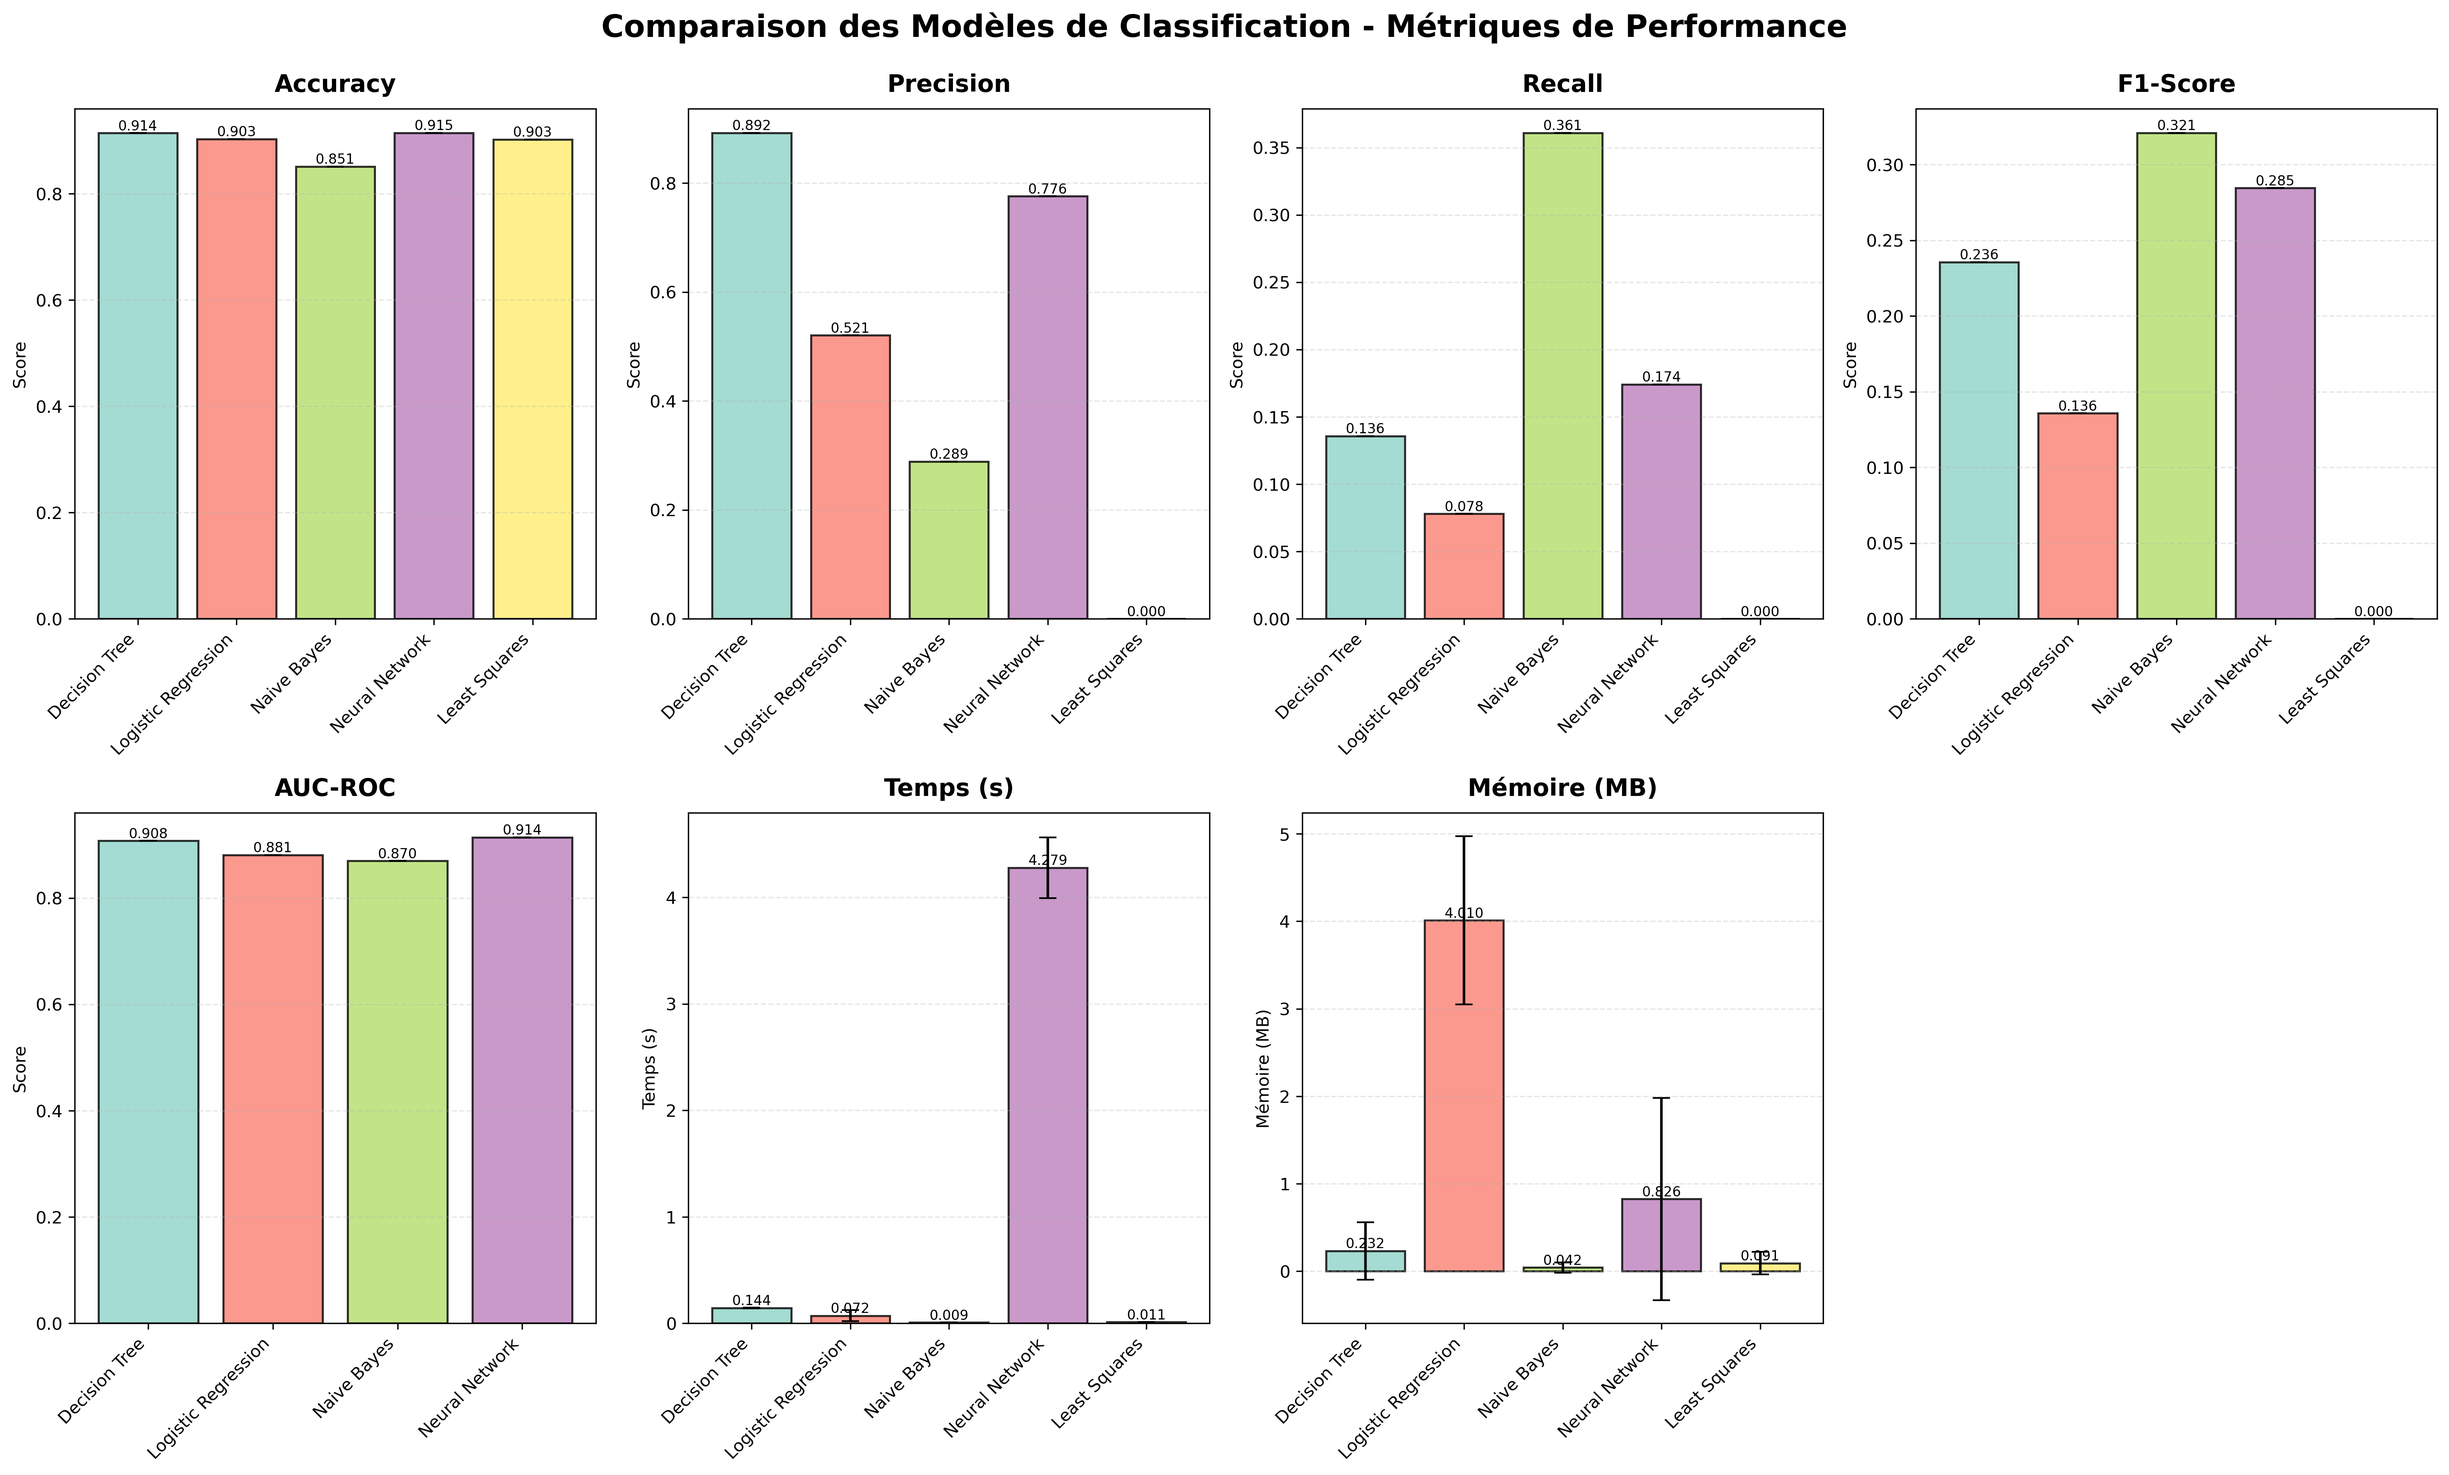
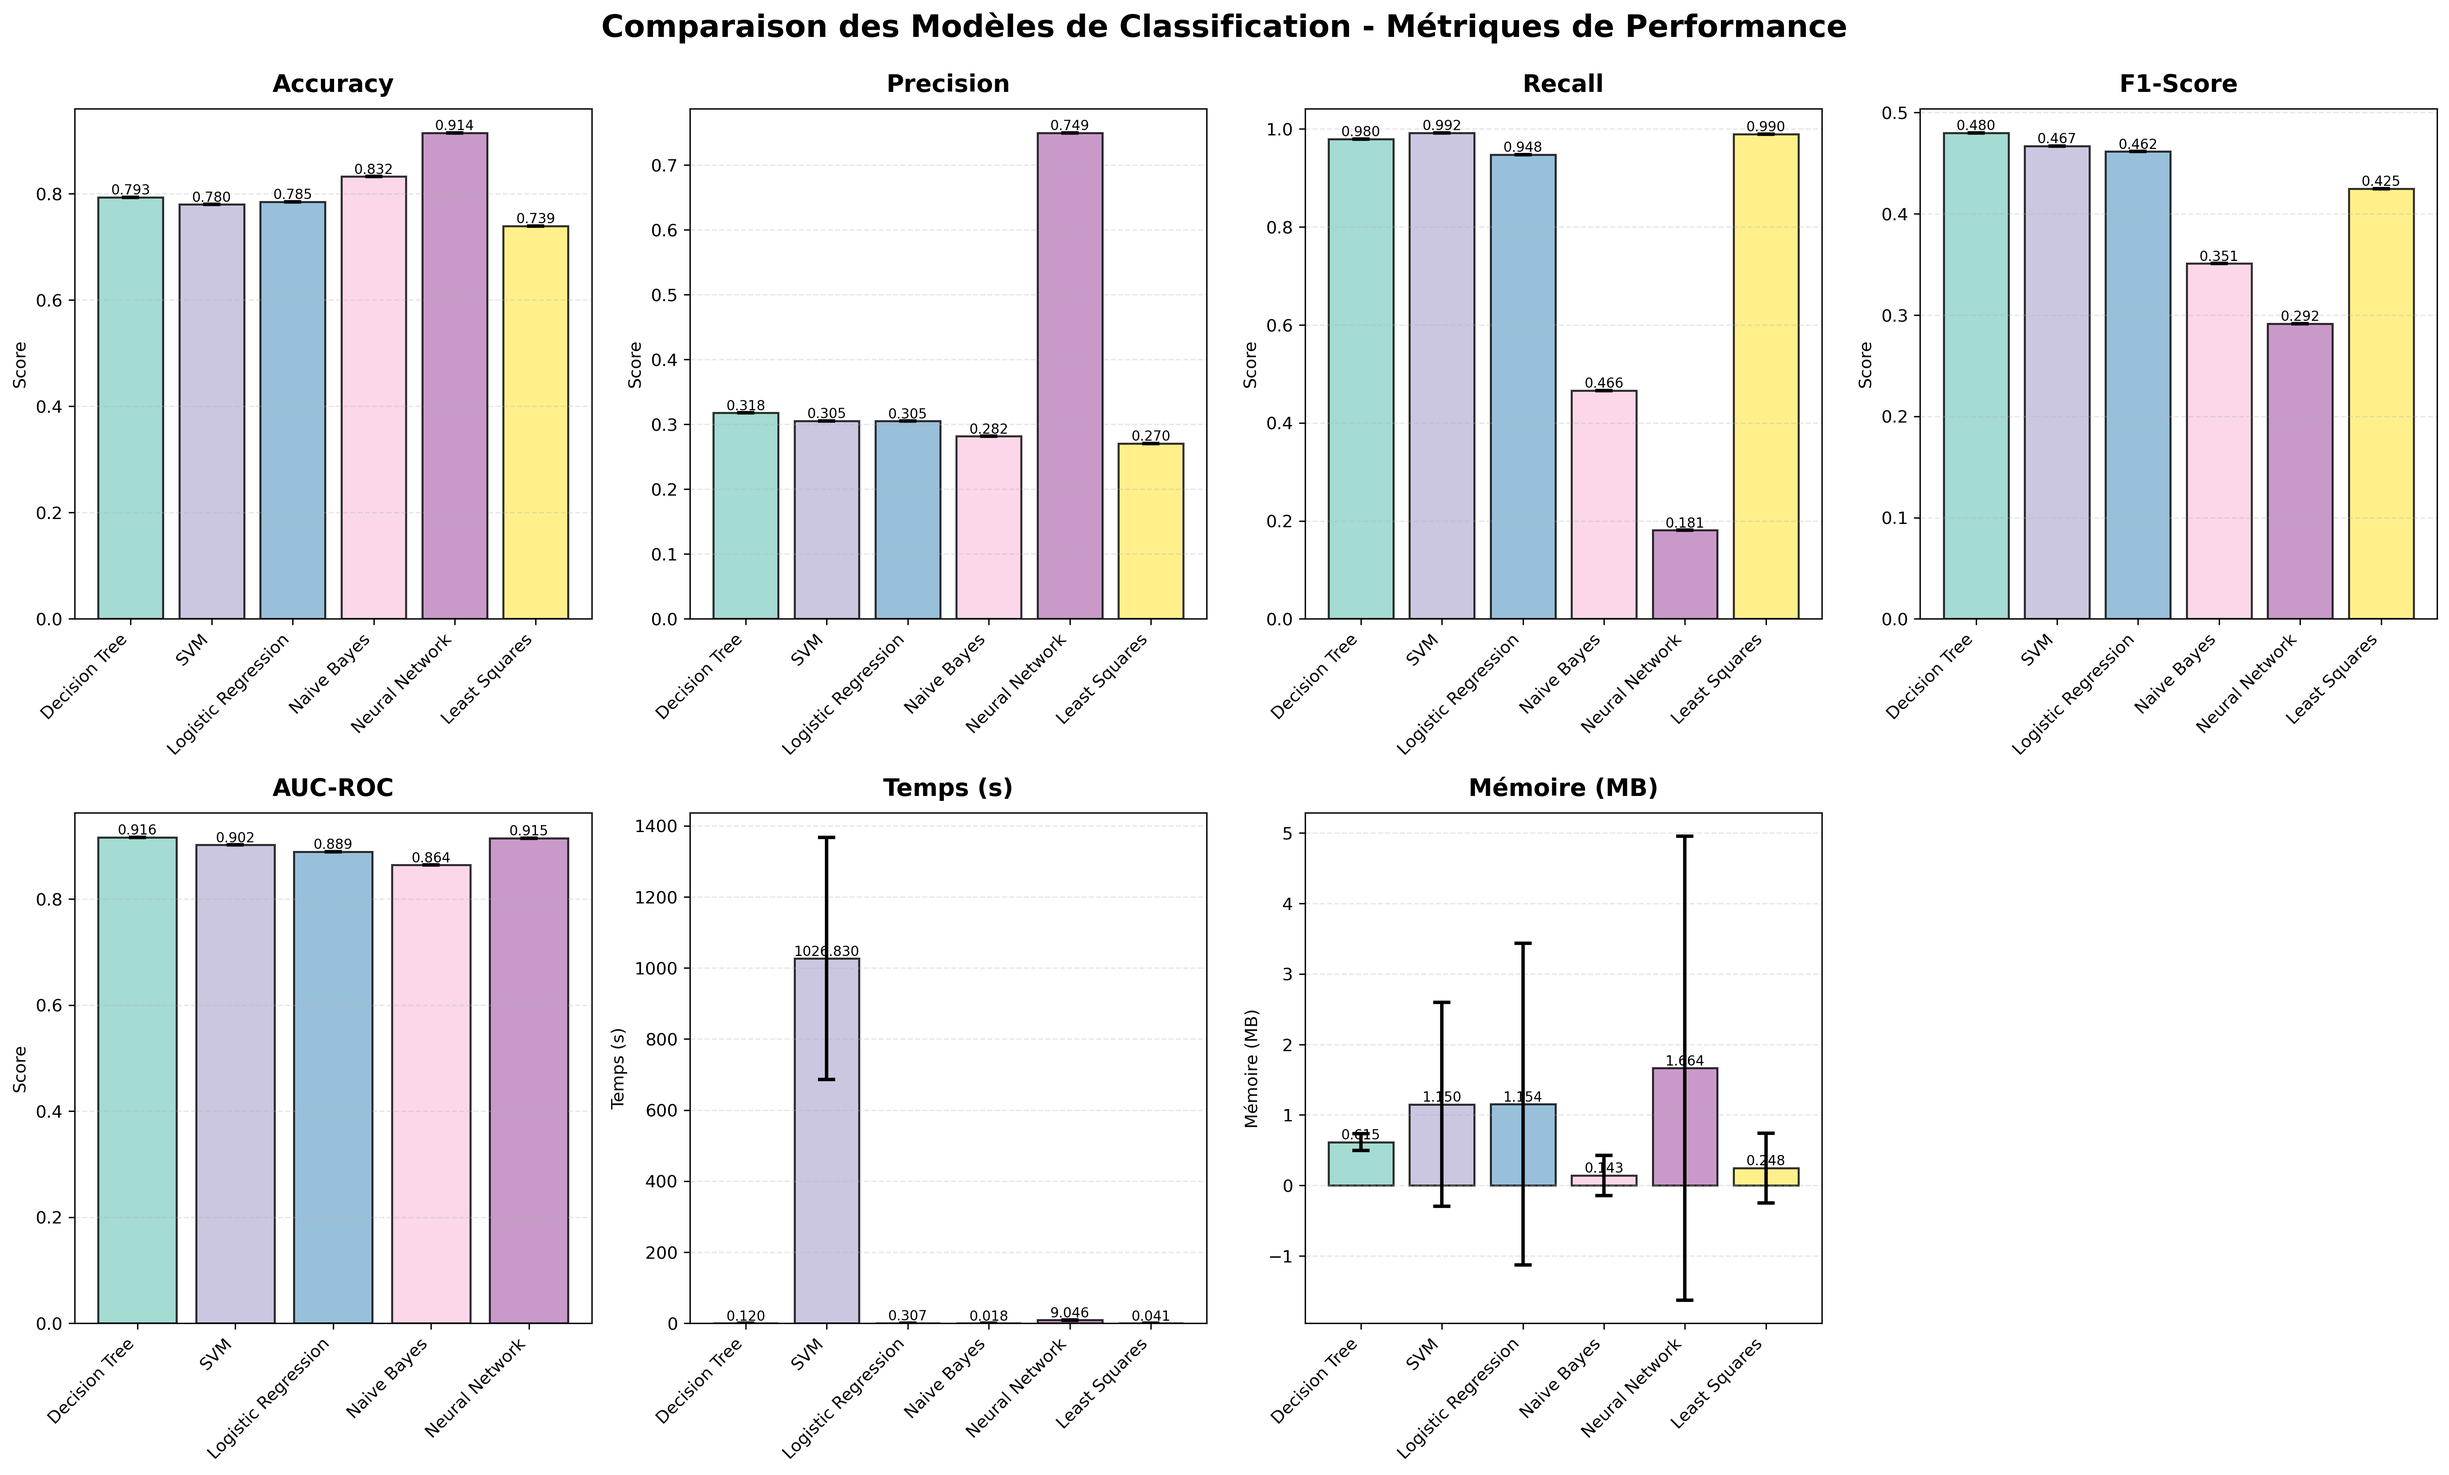
Update SVM parameters and optimization configuration; enhance model comparison error handling
And Run all modeles

diff --git a/src/utils/model_comparison.py b/src/utils/model_comparison.py
@@ -274,7 +274,7 @@ class ModelManager:
                 if not (np.isnan(mean) and np.isnan(std)):
                     methodes.append(model_name)
                     means.append(mean)
-                    stds.append(std)
+                    stds.append(0 if np.isnan(std) else std)
 
             if not methodes:
                 ax.set_visible(False)
@@ -282,12 +282,15 @@ class ModelManager:
 
             x = np.arange(len(methodes))
 
-            # Create bars
+            stds_array = np.array(stds)
+            stds_array = np.nan_to_num(stds_array, nan=0.0)
+
             bars = ax.bar(
                 x,
                 means,
-                yerr=stds,
+                yerr=stds_array,
                 capsize=5,
+                error_kw={'elinewidth': 2, 'capthick': 2},
                 color=colors[:len(methodes)],
                 alpha=0.8,
                 edgecolor='black',
